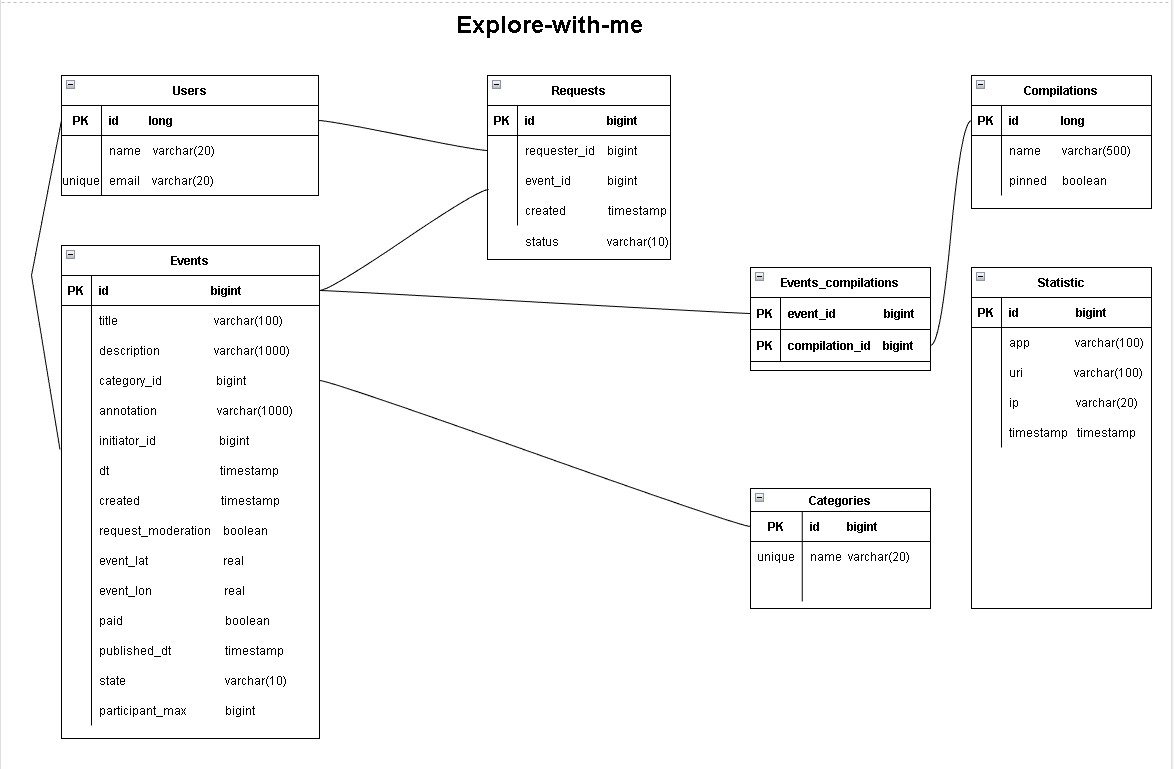
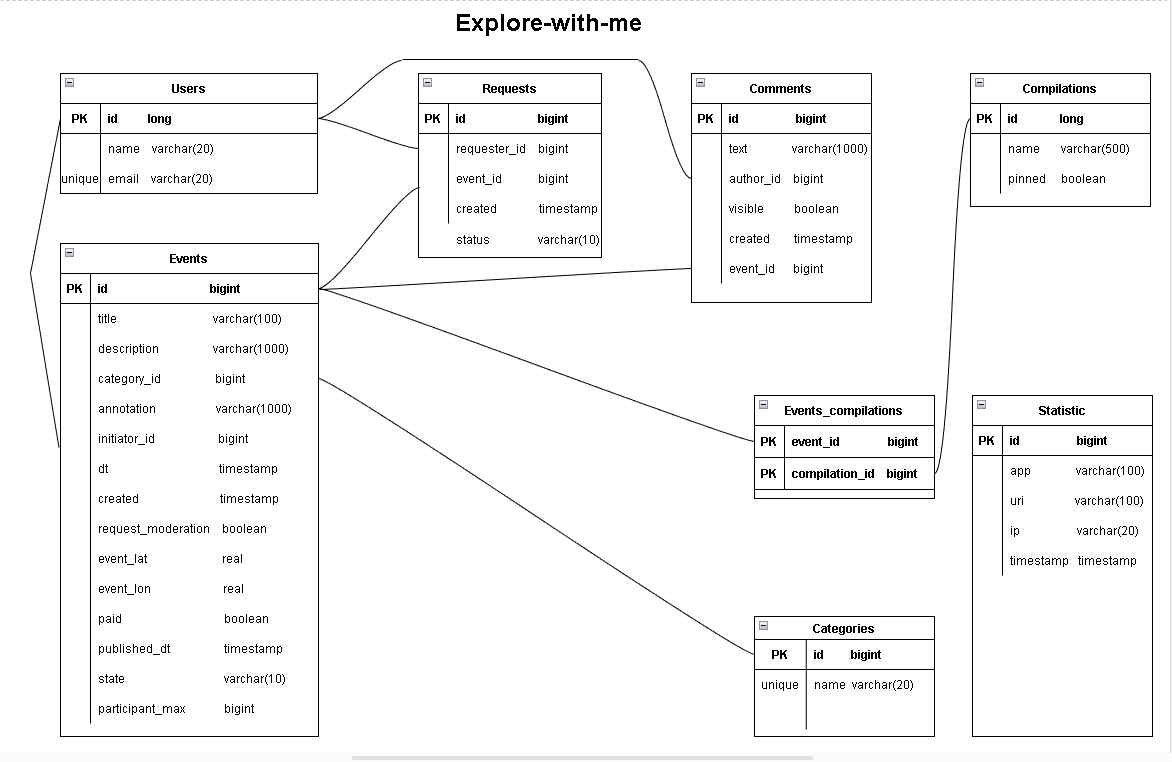
feat: добавить доп.функционал (комменты)

diff --git a/main/src/main/java/ru/practicum/exploreWithMe/service/CommentServiceImpl.java b/main/src/main/java/ru/practicum/exploreWithMe/service/CommentServiceImpl.java
@@ -11,7 +11,6 @@ import ru.practicum.exploreWithMe.exception.NotFoundException;
 import ru.practicum.exploreWithMe.model.Comment;
 import ru.practicum.exploreWithMe.model.Event;
 import ru.practicum.exploreWithMe.model.User;
-import ru.practicum.exploreWithMe.model.dto.CommentDto;
 import ru.practicum.exploreWithMe.repository.CommentRepository;
 import ru.practicum.exploreWithMe.repository.EventRepository;
 import ru.practicum.exploreWithMe.repository.UserRepository;

diff --git a/main/src/main/java/ru/practicum/exploreWithMe/controller/adm/CommentAdmController.java b/main/src/main/java/ru/practicum/exploreWithMe/controller/adm/CommentAdmController.java
@@ -13,7 +13,7 @@ public class CommentAdmController {
     private final CommentService commentService;
     private final CommentMapper commentMapper;
 
-    @PatchMapping("/{commentId}")
+    @PatchMapping("/{commentId}/visible")
     public CommentOutDto updVisible(@PathVariable long commentId, @RequestParam boolean visible){
         return commentMapper.toOutDto(commentService.updVisible(commentId, 0, visible, true));
     }
